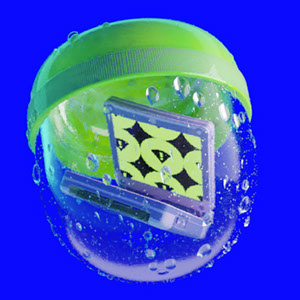
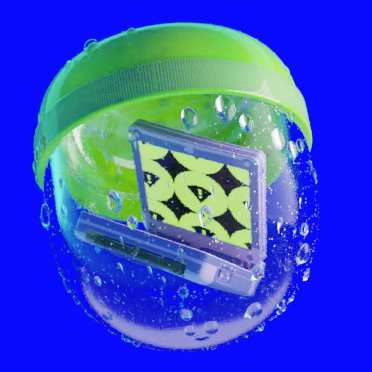
x1

Changed region(s): [[0.39, 0.45, 0.42, 0.51], [0.81, 0.6, 0.84, 0.63]]

diff --git a/css/site_global.css b/css/site_global.css
@@ -1,1 +1,1 @@
-html{min-height:100%;min-width:100%;-ms-text-size-adjust:none;}body,div,dl,dt,dd,ul,ol,li,nav,h1,h2,h3,h4,h5,h6,pre,code,form,fieldset,legend,input,button,textarea,p,blockquote,th,td,a{margin:0px;padding:0px;border-width:0px;border-style:solid;border-color:transparent;-webkit-transform-origin:left top;-ms-transform-origin:left top;-o-transform-origin:left top;transform-origin:left top;background-repeat:no-repeat;}button.submit-btn{-moz-box-sizing:content-box;-webkit-box-sizing:content-box;box-sizing:content-box;}.transition{-webkit-transition-property:background-image,background-position,background-color,border-color,border-radius,color,font-size,font-style,font-weight,letter-spacing,line-height,text-align,box-shadow,text-shadow,opacity;transition-property:background-image,background-position,background-color,border-color,border-radius,color,font-size,font-style,font-weight,letter-spacing,line-height,text-align,box-shadow,text-shadow,opacity;}.transition *{-webkit-transition:inherit;transition:inherit;}table{border-collapse:collapse;border-spacing:0px;}fieldset,img{border:0px;border-style:solid;-webkit-transform-origin:left top;-ms-transform-origin:left top;-o-transform-origin:left top;transform-origin:left top;}address,caption,cite,code,dfn,em,strong,th,var,optgroup{font-style:inherit;font-weight:inherit;}del,ins{text-decoration:none;}li{list-style:none;}caption,th{text-align:left;}h1,h2,h3,h4,h5,h6{font-size:100%;font-weight:inherit;}input,button,textarea,select,optgroup,option{font-family:inherit;font-size:inherit;font-style:inherit;font-weight:inherit;}.form-grp input,.form-grp textarea{-webkit-appearance:none;-webkit-border-radius:0;}body{font-family:Arial, Helvetica Neue, Helvetica, sans-serif;text-align:left;font-size:14px;line-height:17px;word-wrap:break-word;text-rendering:optimizeLegibility;-moz-font-feature-settings:'liga';-ms-font-feature-settings:'liga';-webkit-font-feature-settings:'liga';font-feature-settings:'liga';}a{color:inherit;text-decoration:inherit;}a:link{font-style:normal;font-weight:normal;text-decoration:none;color:inherit;}a:visited{font-style:normal;font-weight:normal;text-decoration:none;color:inherit;}a:hover{font-style:normal;font-weight:normal;text-decoration:none;color:inherit;}a:active{font-style:normal;font-weight:normal;text-decoration:none;color:inherit;}a.nontext{color:black;text-decoration:none;font-style:normal;font-weight:normal;}.normal_text{color:#000000;direction:ltr;font-family:Arial, Helvetica Neue, Helvetica, sans-serif;font-size:14px;font-style:normal;font-weight:normal;letter-spacing:0px;line-height:17px;text-align:left;text-decoration:none;text-indent:0px;text-transform:none;vertical-align:0px;padding:0px;}.list0 li:before{position:absolute;right:100%;letter-spacing:0px;text-decoration:none;font-weight:normal;font-style:normal;}.rtl-list li:before{right:auto;left:100%;}.nls-None > li:before,.nls-None .list3 > li:before,.nls-None .list6 > li:before{margin-right:6px;content:'•';}.nls-None .list1 > li:before,.nls-None .list4 > li:before,.nls-None .list7 > li:before{margin-right:6px;content:'○';}.nls-None,.nls-None .list1,.nls-None .list2,.nls-None .list3,.nls-None .list4,.nls-None .list5,.nls-None .list6,.nls-None .list7,.nls-None .list8{padding-left:34px;}.nls-None.rtl-list,.nls-None .list1.rtl-list,.nls-None .list2.rtl-list,.nls-None .list3.rtl-list,.nls-None .list4.rtl-list,.nls-None .list5.rtl-list,.nls-None .list6.rtl-list,.nls-None .list7.rtl-list,.nls-None .list8.rtl-list{padding-left:0px;padding-right:34px;}.nls-None .list2 > li:before,.nls-None .list5 > li:before,.nls-None .list8 > li:before{margin-right:6px;content:'-';}.nls-None.rtl-list > li:before,.nls-None .list1.rtl-list > li:before,.nls-None .list2.rtl-list > li:before,.nls-None .list3.rtl-list > li:before,.nls-None .list4.rtl-list > li:before,.nls-None .list5.rtl-list > li:before,.nls-None .list6.rtl-list > li:before,.nls-None .list7.rtl-list > li:before,.nls-None .list8.rtl-list > li:before{margin-right:0px;margin-left:6px;}.TabbedPanelsTab{white-space:nowrap;}.MenuBar .MenuBarView,.MenuBar .SubMenuView{display:block;list-style:none;}.MenuBar .SubMenu{display:none;position:absolute;}.NoWrap{white-space:nowrap;word-wrap:normal;}.rootelem{margin-left:auto;margin-right:auto;}.colelem{display:inline;float:left;clear:both;}.clearfix:after{content:"\0020";visibility:hidden;display:block;height:0px;clear:both;}*:first-child+html .clearfix{zoom:1;}.clip_frame{overflow:hidden;}.popup_anchor{position:relative;width:0px;height:0px;}.allow_click_through *{pointer-events:auto;}.popup_element{z-index:100000;}.svg{display:block;vertical-align:top;}span.wrap{content:'';clear:left;display:block;}span.actAsInlineDiv{display:inline-block;}.position_content,.excludeFromNormalFlow{float:left;}.preload_images{position:absolute;overflow:hidden;left:-9999px;top:-9999px;height:1px;width:1px;}.preload{height:1px;width:1px;}.animateStates{-webkit-transition:0.3s ease-in-out;-moz-transition:0.3s ease-in-out;-o-transition:0.3s ease-in-out;transition:0.3s ease-in-out;}[data-whatinput="mouse"] *:focus,[data-whatinput="touch"] *:focus,input:focus,textarea:focus{outline:none;}textarea{resize:none;overflow:auto;}.allow_click_through,.fld-prompt{pointer-events:none;}.wrapped-input{position:absolute;top:0px;left:0px;background:transparent;border:none;}.submit-btn{z-index:50000;cursor:pointer;}.anchor_item{width:22px;height:18px;}.MenuBar .SubMenuVisible,.MenuBarVertical .SubMenuVisible,.MenuBar .SubMenu .SubMenuVisible,.popup_element.Active,span.actAsPara,.actAsDiv,a.nonblock.nontext,img.block{display:block;}.widget_invisible,.js .invi,.js .mse_pre_init{visibility:hidden;}.ose_ei{visibility:hidden;z-index:0;}.no_vert_scroll{overflow-y:hidden;}.always_vert_scroll{overflow-y:scroll;}.always_horz_scroll{overflow-x:scroll;}.fullscreen{overflow:hidden;left:0px;top:0px;position:fixed;height:100%;width:100%;-moz-box-sizing:border-box;-webkit-box-sizing:border-box;-ms-box-sizing:border-box;box-sizing:border-box;}.fullwidth{position:absolute;}.borderbox{-moz-box-sizing:border-box;-webkit-box-sizing:border-box;-ms-box-sizing:border-box;box-sizing:border-box;}.scroll_wrapper{position:absolute;overflow:auto;left:0px;right:0px;top:0px;bottom:0px;padding-top:0px;padding-bottom:0px;margin-top:0px;margin-bottom:0px;}.browser_width > *{position:absolute;left:0px;right:0px;}.grpelem,.accordion_wrapper{display:inline;float:left;}.fld-checkbox input[type=checkbox],.fld-radiobutton input[type=radio]{position:absolute;overflow:hidden;clip:rect(0px, 0px, 0px, 0px);height:1px;width:1px;margin:-1px;padding:0px;border:0px;}.fld-checkbox input[type=checkbox] + label,.fld-radiobutton input[type=radio] + label{display:inline-block;background-repeat:no-repeat;cursor:pointer;float:left;width:100%;height:100%;}.pointer_cursor,.fld-recaptcha-mode,.fld-recaptcha-refresh,.fld-recaptcha-help{cursor:pointer;}p,h1,h2,h3,h4,h5,h6,ol,ul,span.actAsPara{max-height:1000000px;}.superscript{vertical-align:super;font-size:66%;line-height:0px;}.subscript{vertical-align:sub;font-size:66%;line-height:0px;}.horizontalSlideShow{-ms-touch-action:pan-y;touch-action:pan-y;}.verticalSlideShow{-ms-touch-action:pan-x;touch-action:pan-x;}.colelem100,.verticalspacer{clear:both;}.list0 li,.MenuBar .MenuItemContainer,.SlideShowContentPanel .fullscreen img,.css_verticalspacer .verticalspacer{position:relative;}.popup_element.Inactive,.js .disn,.js .an_invi,.hidden,.breakpoint{display:none;}#muse_css_mq{position:absolute;display:none;background-color:#FFFFFE;}.fluid_height_spacer{width:0.01px;}.muse_check_css{display:none;position:fixed;}@media screen and (-webkit-min-device-pixel-ratio:0){body{text-rendering:auto;}}
+html{min-height:100%;min-width:100%;-ms-text-size-adjust:none;}body,div,dl,dt,dd,ul,ol,li,nav,h1,h2,h3,h4,h5,h6,pre,code,form,fieldset,legend,input,button,textarea,p,blockquote,th,td,a{margin:0px;padding:0px;border-width:0px;border-style:solid;border-color:transparent;-webkit-transform-origin:left top;-ms-transform-origin:left top;-o-transform-origin:left top;transform-origin:left top;background-repeat:no-repeat;}button.submit-btn{-moz-box-sizing:content-box;-webkit-box-sizing:content-box;box-sizing:content-box;}.transition{-webkit-transition-property:background-image,background-position,background-color,border-color,border-radius,color,font-size,font-style,font-weight,letter-spacing,line-height,text-align,box-shadow,text-shadow,opacity;transition-property:background-image,background-position,background-color,border-color,border-radius,color,font-size,font-style,font-weight,letter-spacing,line-height,text-align,box-shadow,text-shadow,opacity;}.transition *{-webkit-transition:inherit;transition:inherit;}table{border-collapse:collapse;border-spacing:0px;}fieldset,img{border:0px;border-style:solid;-webkit-transform-origin:left top;-ms-transform-origin:left top;-o-transform-origin:left top;transform-origin:left top;}address,caption,cite,code,dfn,em,strong,th,var,optgroup{font-style:inherit;font-weight:inherit;}del,ins{text-decoration:none;}li{list-style:none;}caption,th{text-align:left;}h1,h2,h3,h4,h5,h6{font-size:100%;font-weight:inherit;}input,button,textarea,select,optgroup,option{font-family:inherit;font-size:inherit;font-style:inherit;font-weight:inherit;}.form-grp input,.form-grp textarea{-webkit-appearance:none;-webkit-border-radius:0;}body{font-family:Arial, Helvetica Neue, Helvetica, sans-serif;text-align:left;font-size:14px;line-height:17px;word-wrap:break-word;text-rendering:optimizeLegibility;-moz-font-feature-settings:'liga';-ms-font-feature-settings:'liga';-webkit-font-feature-settings:'liga';font-feature-settings:'liga';}a:link{font-style:normal;font-weight:normal;text-decoration:none;color:inherit;}a:visited{font-style:normal;font-weight:normal;text-decoration:none;color:inherit;}a:hover{font-style:normal;font-weight:normal;text-decoration:none;color:inherit;}a:active{font-style:normal;font-weight:normal;text-decoration:none;color:inherit;}a.nontext{color:black;text-decoration:none;font-style:normal;font-weight:normal;}.normal_text{color:#000000;direction:ltr;font-family:Arial, Helvetica Neue, Helvetica, sans-serif;font-size:14px;font-style:normal;font-weight:normal;letter-spacing:0px;line-height:17px;text-align:left;text-decoration:none;text-indent:0px;text-transform:none;vertical-align:0px;padding:0px;}.list0 li:before{position:absolute;right:100%;letter-spacing:0px;text-decoration:none;font-weight:normal;font-style:normal;}.rtl-list li:before{right:auto;left:100%;}.nls-None > li:before,.nls-None .list3 > li:before,.nls-None .list6 > li:before{margin-right:6px;content:'•';}.nls-None .list1 > li:before,.nls-None .list4 > li:before,.nls-None .list7 > li:before{margin-right:6px;content:'○';}.nls-None,.nls-None .list1,.nls-None .list2,.nls-None .list3,.nls-None .list4,.nls-None .list5,.nls-None .list6,.nls-None .list7,.nls-None .list8{padding-left:34px;}.nls-None.rtl-list,.nls-None .list1.rtl-list,.nls-None .list2.rtl-list,.nls-None .list3.rtl-list,.nls-None .list4.rtl-list,.nls-None .list5.rtl-list,.nls-None .list6.rtl-list,.nls-None .list7.rtl-list,.nls-None .list8.rtl-list{padding-left:0px;padding-right:34px;}.nls-None .list2 > li:before,.nls-None .list5 > li:before,.nls-None .list8 > li:before{margin-right:6px;content:'-';}.nls-None.rtl-list > li:before,.nls-None .list1.rtl-list > li:before,.nls-None .list2.rtl-list > li:before,.nls-None .list3.rtl-list > li:before,.nls-None .list4.rtl-list > li:before,.nls-None .list5.rtl-list > li:before,.nls-None .list6.rtl-list > li:before,.nls-None .list7.rtl-list > li:before,.nls-None .list8.rtl-list > li:before{margin-right:0px;margin-left:6px;}.TabbedPanelsTab{white-space:nowrap;}.MenuBar .MenuBarView,.MenuBar .SubMenuView{display:block;list-style:none;}.MenuBar .SubMenu{display:none;position:absolute;}.NoWrap{white-space:nowrap;word-wrap:normal;}.rootelem{margin-left:auto;margin-right:auto;}.colelem{display:inline;float:left;clear:both;}.clearfix:after{content:"\0020";visibility:hidden;display:block;height:0px;clear:both;}*:first-child+html .clearfix{zoom:1;}.clip_frame{overflow:hidden;}.popup_anchor{position:relative;width:0px;height:0px;}.allow_click_through *{pointer-events:auto;}.popup_element{z-index:100000;}.svg{display:block;vertical-align:top;}span.wrap{content:'';clear:left;display:block;}span.actAsInlineDiv{display:inline-block;}.position_content,.excludeFromNormalFlow{float:left;}.preload_images{position:absolute;overflow:hidden;left:-9999px;top:-9999px;height:1px;width:1px;}.preload{height:1px;width:1px;}.animateStates{-webkit-transition:0.3s ease-in-out;-moz-transition:0.3s ease-in-out;-o-transition:0.3s ease-in-out;transition:0.3s ease-in-out;}[data-whatinput="mouse"] *:focus,[data-whatinput="touch"] *:focus,input:focus,textarea:focus{outline:none;}textarea{resize:none;overflow:auto;}.allow_click_through,.fld-prompt{pointer-events:none;}.wrapped-input{position:absolute;top:0px;left:0px;background:transparent;border:none;}.submit-btn{z-index:50000;cursor:pointer;}.anchor_item{width:22px;height:18px;}.MenuBar .SubMenuVisible,.MenuBarVertical .SubMenuVisible,.MenuBar .SubMenu .SubMenuVisible,.popup_element.Active,span.actAsPara,.actAsDiv,a.nonblock.nontext,img.block{display:block;}.widget_invisible,.js .invi,.js .mse_pre_init{visibility:hidden;}.ose_ei{visibility:hidden;z-index:0;}.no_vert_scroll{overflow-y:hidden;}.always_vert_scroll{overflow-y:scroll;}.always_horz_scroll{overflow-x:scroll;}.fullscreen{overflow:hidden;left:0px;top:0px;position:fixed;height:100%;width:100%;-moz-box-sizing:border-box;-webkit-box-sizing:border-box;-ms-box-sizing:border-box;box-sizing:border-box;}.fullwidth{position:absolute;}.borderbox{-moz-box-sizing:border-box;-webkit-box-sizing:border-box;-ms-box-sizing:border-box;box-sizing:border-box;}.scroll_wrapper{position:absolute;overflow:auto;left:0px;right:0px;top:0px;bottom:0px;padding-top:0px;padding-bottom:0px;margin-top:0px;margin-bottom:0px;}.browser_width > *{position:absolute;left:0px;right:0px;}.grpelem,.accordion_wrapper{display:inline;float:left;}.fld-checkbox input[type=checkbox],.fld-radiobutton input[type=radio]{position:absolute;overflow:hidden;clip:rect(0px, 0px, 0px, 0px);height:1px;width:1px;margin:-1px;padding:0px;border:0px;}.fld-checkbox input[type=checkbox] + label,.fld-radiobutton input[type=radio] + label{display:inline-block;background-repeat:no-repeat;cursor:pointer;float:left;width:100%;height:100%;}.pointer_cursor,.fld-recaptcha-mode,.fld-recaptcha-refresh,.fld-recaptcha-help{cursor:pointer;}p,h1,h2,h3,h4,h5,h6,ol,ul,span.actAsPara{max-height:1000000px;}.superscript{vertical-align:super;font-size:66%;line-height:0px;}.subscript{vertical-align:sub;font-size:66%;line-height:0px;}.horizontalSlideShow{-ms-touch-action:pan-y;touch-action:pan-y;}.verticalSlideShow{-ms-touch-action:pan-x;touch-action:pan-x;}.colelem100,.verticalspacer{clear:both;}.list0 li,.MenuBar .MenuItemContainer,.SlideShowContentPanel .fullscreen img,.css_verticalspacer .verticalspacer{position:relative;}.popup_element.Inactive,.js .disn,.js .an_invi,.hidden,.breakpoint{display:none;}#muse_css_mq{position:absolute;display:none;background-color:#FFFFFE;}.fluid_height_spacer{width:0.01px;}.muse_check_css{display:none;position:fixed;}@media screen and (-webkit-min-device-pixel-ratio:0){body{text-rendering:auto;}}

diff --git a/index.html b/index.html
@@ -17,24 +17,24 @@ if(typeof Muse == "undefined") window.Muse = {}; window.Muse.assets = {"required
   <link rel="shortcut icon" href="images/favicon.ico?crc=3823888772"/>
   <title>Home</title>
   <!-- CSS -->
-  <link rel="stylesheet" type="text/css" href="css/site_global.css?crc=229390053"/>
-  <link rel="stylesheet" type="text/css" href="css/index.css?crc=9875792" id="pagesheet"/>
+  <link rel="stylesheet" type="text/css" href="css/site_global.css?crc=3779915718"/>
+  <link rel="stylesheet" type="text/css" href="css/index.css?crc=490487010" id="pagesheet"/>
    </head>
  <body>
 
-  <div class="clearfix borderbox" id="page"><!-- column -->
-   <div class="clip_frame colelem" id="u94" data-sizePolicy="fixed" data-pintopage="page_fixedCenter"><!-- image -->
+  <div class="clearfix borderbox" id="page"><!-- group -->
+   <div class="clip_frame grpelem" id="u94" data-sizePolicy="fixed" data-pintopage="page_fixedCenter"><!-- image -->
     <img class="block" id="u94_img" src="images/group%201.png?crc=521096330" alt="" width="301" height="301"/>
    </div>
-   <div class="clip_frame colelem" id="u2801" data-sizePolicy="fluidWidthHeight" data-pintopage="page_fixedCenter"><!-- image -->
-    <img class="block" id="u2801_img" src="images/ripple%202.jpg?crc=4060636064" alt="" data-heightwidthratio="1" data-image-width="300" data-image-height="300"/>
+   <div class="verticalspacer" data-offset-top="387" data-content-above-spacer="386" data-content-below-spacer="571" data-sizePolicy="fixed" data-pintopage="page_fixedLeft"></div>
+   <div class="clip_frame grpelem" id="u2976"><!-- image -->
+    <img class="block" id="u2976_img" src="images/ripple%202.jpg?crc=119591776" alt="" data-heightwidthratio="1" data-image-width="372" data-image-height="372"/>
    </div>
-   <div class="verticalspacer" data-offset-top="685" data-content-above-spacer="684" data-content-below-spacer="570" data-sizePolicy="fixed" data-pintopage="page_fixedLeft"></div>
   </div>
   <!-- Other scripts -->
   <script type="text/javascript">
    // Decide whether to suppress missing file error or not based on preference setting
-var suppressMissingFileError = true
+var suppressMissingFileError = false
 </script>
   <script type="text/javascript">
    window.Muse.assets.check=function(c){if(!window.Muse.assets.checked){window.Muse.assets.checked=!0;var b={},d=function(a,b){if(window.getComputedStyle){var c=window.getComputedStyle(a,null);return c&&c.getPropertyValue(b)||c&&c[b]||""}if(document.documentElement.currentStyle)return(c=a.currentStyle)&&c[b]||a.style&&a.style[b]||"";return""},a=function(a){if(a.match(/^rgb/))return a=a.replace(/\s+/g,"").match(/([\d\,]+)/gi)[0].split(","),(parseInt(a[0])<<16)+(parseInt(a[1])<<8)+parseInt(a[2]);if(a.match(/^\#/))return parseInt(a.substr(1),

diff --git a/css/index.css b/css/index.css
@@ -1,1 +1,1 @@
-.version.index{color:#000000;background-color:#96B150;}#muse_css_mq{background-color:#FFFFFF;}#page{z-index:1;min-height:367px;background-image:none;border-width:0px;border-color:#000000;background-color:transparent;padding-top:62px;padding-bottom:62px;width:100%;max-width:960px;margin-left:auto;margin-right:auto;}#u94{z-index:4;width:301px;background-color:transparent;position:relative;margin-left:50%;left:-150px;}#u94_img{padding-top:12px;padding-bottom:12px;}#u2801{z-index:2;background-color:transparent;top:-2px;margin-bottom:-2px;position:relative;width:31.25%;margin-left:34.38%;left:0px;}#u2801_img{width:100%;}.css_verticalspacer .verticalspacer{height:calc(100vh - 1254px);}.html{background:#0A0AFF url("../images/bgcolour1.jpg?crc=3793393607") repeat left top scroll;}body{position:relative;min-width:300px;padding-bottom:509px;}
+.version.index{color:#00001D;background-color:#3C3CE2;}#muse_css_mq{background-color:#FFFFFF;}#page{z-index:1;min-height:491px;background-image:none;border-width:0px;border-color:#000000;background-color:#0A0AFF;width:100%;max-width:1080px;margin-left:auto;margin-right:auto;}#u94{z-index:2;width:301px;background-color:transparent;position:relative;margin-right:-10000px;margin-top:62px;margin-left:50%;left:-150px;}#u94_img{padding-top:12px;padding-bottom:12px;}.css_verticalspacer .verticalspacer{height:calc(100vh - 957px);}#u2976{z-index:4;background-color:transparent;margin-bottom:-310px;position:relative;margin-right:-10000px;width:34.45%;left:32.78%;}#u2976_img{width:100%;}.html{background-color:#0A0AFF;}body{position:relative;min-width:300px;padding-bottom:509px;}.verticalspacer{min-height:42px;}
